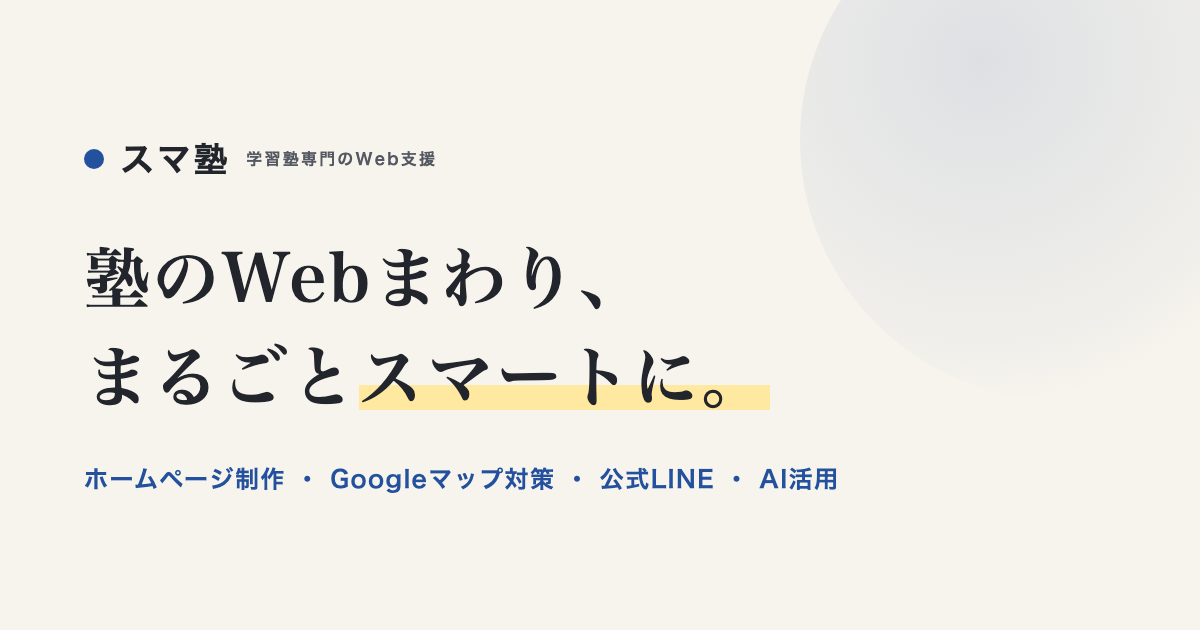
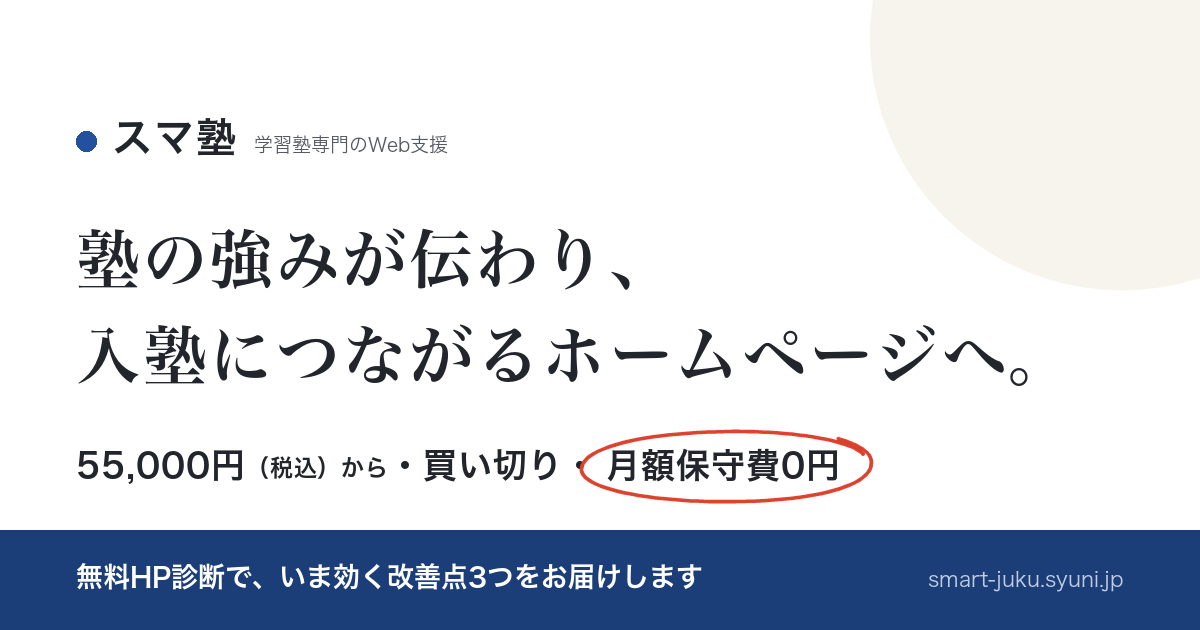
OGP: トップページの共有画像を現行コピーに差し替え
旧画像は2026-07作成で「塾のWebまわり、まるごとスマートに。」「公式LINE」が
焼き込まれており、いまの見出し・メニューと食い違っていた。
見出し・価格・無料診断の訴求を現行LPに合わせ、赤ペンは月額保守費0円の1箇所のみ。
再生成用に scripts/make_ogp_top.py を追加（build.py からは呼ばない手動実行用）。

diff --git a/scripts/make_ogp_top.py b/scripts/make_ogp_top.py
@@ -1,0 +1,229 @@
+#!/usr/bin/env python3
+# -*- coding: utf-8 -*-
+"""トップページ（LP）用の OGP 画像 assets/ogp.png（1200x630）を生成する。
+
+記事用は make_ogp.py（build.py から毎回呼ばれる）。こちらは LP のコピーが
+変わったときだけ手で回す。**build.py からは呼ばない。**
+
+    python3 scripts/make_ogp_top.py
+
+DESIGN.md の規約に従う：
+  - 地色は白。クリーム（--paper）は「面」にだけ使う（右上の円）
+  - 見出しは明朝、本文・ラベルはゴシック（make_ogp.py と同じヒラギノ）
+  - 赤ペン（--akapen）は「月額保守費0円」の丸つけ1か所だけ。装飾に使わない
+  - 蛍光マーカーは本文中の限定強調のみ。見出しには使わない（旧OGPは使っていた）
+"""
+
+from __future__ import annotations
+
+import re
+import os
+from pathlib import Path
+
+ROOT = Path(__file__).resolve().parent.parent
+OUT = ROOT / "assets" / "ogp.png"
+
+W, H = 1200, 630
+
+# DESIGN.md の色トークン。ここに無い値を足さない
+WHITE = "#FFFFFF"
+PAPER = "#F7F4ED"
+INK = "#22252B"
+INK_SOFT = "#555962"
+BLUE = "#24519E"
+BLUE_DEEP = "#1B3D78"
+AKAPEN = "#D6402C"
+
+MINCHO = "/System/Library/Fonts/ヒラギノ明朝 ProN.ttc"   # index 2 = W6
+GOTHIC_W6 = "/System/Library/Fonts/ヒラギノ角ゴシック W6.ttc"
+GOTHIC_W3 = "/System/Library/Fonts/ヒラギノ角ゴシック W3.ttc"
+
+# LP の h1（赤ペンの丸は「月額保守費0円」に付く）
+TITLE_LINES = ["塾の強みが伝わり、", "入塾につながるホームページへ。"]
+FOOT_TEXT = "無料HP診断で、いま効く改善点3つをお届けします"
+FOOT_URL = "smart-juku.syuni.jp"
+
+# .maru-ink の path（index.html と同一。viewBox 0 0 280 74 / stroke-width 3.2）
+MARU_D = (
+    "M260 24 C 246 10, 186 3, 134 5 C 64 7, 17 20, 18 38 "
+    "C 20 56, 87 66, 151 65 C 221 64, 266 51, 267 33 C 269 23, 256 16, 239 11"
+)
+MARU_VB = (280.0, 74.0)
+MARU_STROKE = 3.2
+
+
+def _available() -> bool:
+    try:
+        import PIL  # noqa: F401
+    except ImportError:
+        return False
+    return os.path.exists(MINCHO) and os.path.exists(GOTHIC_W6)
+
+
+def _font(path: str, size: int, index: int = 0):
+    from PIL import ImageFont
+
+    return ImageFont.truetype(path, size, index=index)
+
+
+# --- letter-spacing 付きの描画（LP の h1 は .04em、価格行は .03em） -------
+def _track_width(draw, text: str, font, tracking: float) -> float:
+    if not text:
+        return 0.0
+    return sum(draw.textlength(c, font=font) for c in text) + tracking * len(text)
+
+
+def _track_text(draw, xy, text: str, font, fill, tracking: float) -> float:
+    x, y = xy
+    for c in text:
+        draw.text((x, y), c, font=font, fill=fill)
+        x += draw.textlength(c, font=font) + tracking
+    return x
+
+
+# --- SVG path（M/C だけ）を折れ線に落とす -------------------------------
+def _parse_path(d: str) -> list[tuple[float, float]]:
+    # "M260 24" のようにコマンドと数値がくっついた書き方があるので、
+    # コマンド文字の前後を分けてから空白で切る
+    toks = re.sub(r"([MC])", r" \1 ", d).replace(",", " ").split()
+    pts: list[tuple[float, float]] = []
+    cur = (0.0, 0.0)
+    i = 0
+    while i < len(toks):
+        cmd = toks[i]
+        if cmd == "M":
+            cur = (float(toks[i + 1]), float(toks[i + 2]))
+            pts.append(cur)
+            i += 3
+        elif cmd == "C":
+            p1 = (float(toks[i + 1]), float(toks[i + 2]))
+            p2 = (float(toks[i + 3]), float(toks[i + 4]))
+            p3 = (float(toks[i + 5]), float(toks[i + 6]))
+            p0 = cur
+            for s in range(1, 25):
+                t = s / 24
+                u = 1 - t
+                pts.append(
+                    (
+                        u**3 * p0[0] + 3 * u * u * t * p1[0] + 3 * u * t * t * p2[0] + t**3 * p3[0],
+                        u**3 * p0[1] + 3 * u * u * t * p1[1] + 3 * u * t * t * p2[1] + t**3 * p3[1],
+                    )
+                )
+            cur = p3
+            i += 7
+        else:  # 想定外のコマンドは無視（この path には現れない）
+            i += 1
+    return pts
+
+
+def _draw_maru(img, cx: float, cy: float, box_w: float) -> None:
+    """赤ペンの丸つけ。box_w は SVG の描画幅（px）。
+    4倍で描いてから縮小し、SVG と同じなめらかさにする"""
+    from PIL import Image, ImageDraw
+
+    ss = 4
+    layer = Image.new("RGBA", (img.width * ss, img.height * ss), (0, 0, 0, 0))
+    dl = ImageDraw.Draw(layer)
+
+    sx = box_w / MARU_VB[0]
+    box_h = MARU_VB[1] * sx
+    ox = cx - box_w / 2
+    oy = cy - box_h / 2
+    pts = [((ox + px * sx) * ss, (oy + py * sx) * ss) for px, py in _parse_path(MARU_D)]
+    w = max(2, round(MARU_STROKE * sx * ss))
+    dl.line(pts, fill=AKAPEN, width=w, joint="curve")
+    # stroke-linecap:round の再現（両端を丸める）
+    r = w / 2
+    for p in (pts[0], pts[-1]):
+        dl.ellipse((p[0] - r, p[1] - r, p[0] + r, p[1] + r), fill=AKAPEN)
+
+    img.paste(layer.resize(img.size, Image.LANCZOS).convert("RGB"),
+              (0, 0), layer.resize(img.size, Image.LANCZOS).split()[3])
+
+
+def render(out_path: Path = OUT) -> None:
+    from PIL import Image, ImageDraw
+
+    img = Image.new("RGB", (W, H), WHITE)
+    d = ImageDraw.Draw(img)
+
+    pad = 76
+
+    # --- 右上の「面」：クリームの円（旧OGPの構図を踏襲） ----------------
+    # 4倍で描いて縮小し、縁のジャギーを消す
+    ss = 4
+    circle = Image.new("RGB", (W * ss, H * ss), WHITE)
+    dc = ImageDraw.Draw(circle)
+    # 見出し2行目（上端 322）に円が掛からない大きさ・位置にする
+    ccx, ccy, cr = 1122, 38, 252
+    dc.ellipse(
+        ((ccx - cr) * ss, (ccy - cr) * ss, (ccx + cr) * ss, (ccy + cr) * ss), fill=PAPER
+    )
+    img.paste(circle.resize((W, H), Image.LANCZOS), (0, 0))
+    d = ImageDraw.Draw(img)
+
+    # --- ロゴ（旧OGPと同じ位置・同じ扱い：1行に並べる） -----------------
+    logo_y = 116
+    f_logo = _font(GOTHIC_W6, 40)
+    f_tag = _font(GOTHIC_W3, 19)
+    d.ellipse((pad, logo_y + 15, pad + 20, logo_y + 35), fill=BLUE)
+    lx = _track_text(d, (pad + 36, logo_y), "スマ塾", f_logo, INK, 2.0)
+    d.text((lx + 16, logo_y + 19), "学習塾専門のWeb支援", font=f_tag, fill=INK_SOFT)
+
+    # --- 主見出し（明朝。2行。折り返しはしない＝1文字残りが出ない） -----
+    t_size, t_gap, t_track = 64, 96, 2.6   # 2.6/64 ≒ .04em（LPの h1 と同じ）
+    f_title = _font(MINCHO, t_size, index=2)
+    max_w = W - pad * 2
+    while max(_track_width(d, ln, f_title, t_track) for ln in TITLE_LINES) > max_w:
+        t_size -= 2
+        t_gap -= 3
+        t_track = t_size * 0.04
+        f_title = _font(MINCHO, t_size, index=2)
+
+    ty = 226
+    for ln in TITLE_LINES:
+        _track_text(d, (pad, ty), ln, f_title, INK, t_track)
+        ty += t_gap
+
+    # --- 価格行（ゴシック700。枠は付けない。赤ペンの丸はここだけ） ------
+    p_size = 34
+    p_track = p_size * 0.03
+    f_price = _font(GOTHIC_W6, p_size)
+    f_small = _font(GOTHIC_W6, round(p_size * 0.68))   # LP の .hero-price small
+    py = 448
+    small_dy = round((p_size - p_size * 0.68) * 0.62)  # 小書きの下端を揃える
+
+    x = float(pad)
+    x = _track_text(d, (x, py), "55,000円", f_price, INK, p_track)
+    x = _track_text(d, (x, py + small_dy), "（税込）から", f_small, INK, p_size * 0.02)
+    x = _track_text(d, (x, py), "・買い切り・", f_price, INK, p_track)
+
+    maru_text = "月額保守費0円"
+    maru_x0 = x + p_size * 0.22   # .maru の padding 0 .22em（丸が中黒に掛からない）
+    maru_w = _track_width(d, maru_text, f_price, p_track)
+    _track_text(d, (maru_x0, py), maru_text, f_price, INK, p_track)
+
+    # .maru: padding 0 .22em ／ .maru-ink: left -.6em, width 100% + 1.2em
+    # path は viewBox 幅の 90% しか使わないぶん、CSS 値より少し広くとる
+    # 縮小表示でも赤ペンが残るよう、CSS 値より 12% だけ大きく（線も太くなる）
+    box_w = (maru_w + p_size * 0.44 + p_size * 1.2) * 1.12
+    _draw_maru(img, maru_x0 + maru_w / 2, py + p_size * 0.62, box_w)
+
+    # --- 下段の帯（LPの無料HP診断節と同じ紺） ---------------------------
+    band_y = 530
+    d.rectangle((0, band_y, W, H), fill=BLUE_DEEP)
+    f_foot = _font(GOTHIC_W6, 27)
+    d.text((pad, band_y + 33), FOOT_TEXT, font=f_foot, fill="#FFFFFF")
+    f_url = _font(GOTHIC_W3, 21)
+    uw = d.textlength(FOOT_URL, font=f_url)
+    d.text((W - pad - uw, band_y + 38), FOOT_URL, font=f_url, fill="#BFCCE4")
+
+    out_path.parent.mkdir(parents=True, exist_ok=True)
+    img.save(out_path, "PNG", optimize=True)
+
+
+if __name__ == "__main__":
+    if not _available():
+        raise SystemExit("Pillow か ヒラギノフォントが見つかりません")
+    render()
+    print(f"{OUT.relative_to(ROOT)} を生成しました（{OUT.stat().st_size:,} bytes）")
